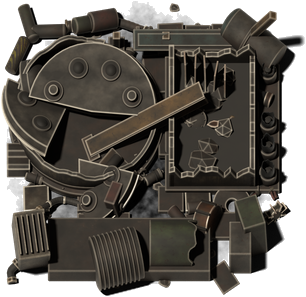
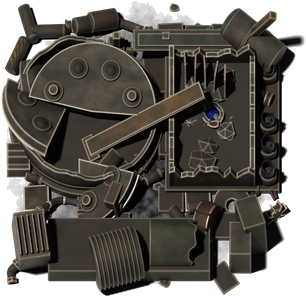
WIP: Radiant Generator idle wiring, dying blue wreck, night-light proposal, fix crops (T08c)
Claude-Session: https://claude.ai/code/session_01M2xBqY2x1tfpSgYSQDAYYJ

Changed region(s): [[0.6471, 0.3333, 0.7941, 0.4848], [0.6471, 0.303, 0.6765, 0.3333]]

diff --git a/concept/radiant-generator/model/wreck.py b/concept/radiant-generator/model/wreck.py
@@ -12,13 +12,13 @@ the debris stays on the footprint.
   - the deck: most slabs where they lay, some heaved and tilted, a few gone;
   - the carousel: the lead drum burst open on its north-east side; the turning table thrown
     off its bearing and lying tilted on the rim; the hub's dome rolled off west; the loading
-    hood's plates fallen; spent cells spilled across the deck (no fresh one, and nothing lit:
-    the light is gone with the machine);
+    hood's plates fallen; spent cells spilled across the deck (no fresh one, nothing lit);
   - the crane: its bridge fallen across the deck from the crucible to the carousel, one end on
     the ground; the trolley fallen off it; two of the three posts snapped short;
   - the crucible: its lead walls standing to half their height, torn; the roof plates thrown
     off round it; copper collector plates leaning out of the open top; the well's collar on
-    the deck;
+    the deck, its mouth torn open in the floor with a faint dying blue in it, the only light
+    left (T08c, Liam 2026-10-21: "Faint dying blue");
   - the tubes: their sockets on the east strip, the glass broken to jagged stumps, two caps
     and one whole tube lying on the ground;
   - the converter: the bedplate in place, the AC machine rolled off it to the south, the DC
@@ -439,6 +439,81 @@ for k in range(12):
     a, r = RNG.uniform(0, 2 * PI), RNG.uniform(0.4, 2.2)
     lump((r * math.cos(a), r * math.sin(a), 0.02), RNG.uniform(0.05, 0.1), RNG.choice(("dark_steel", "lead")))
 
+
+# -- the well (T08c, Liam 2026-10-21: "Faint dying blue"): its mouth torn open in the crucible's
+# floor, where the well stood (spec 3.3's served well), and the last of the isotope's light dying
+# in it -- the only light in the wreck, faint, in the radiant blue's own hue (#1F63FF at the core,
+# #0B2A8C at the rim; never #73ADFF's pale top, never white), patchy as it fades. Baked into the
+# remnants picture: a corpse draws no glow layer of the pipeline's (contract.py's remnants pass).
+DYING = "wreck_dying"
+DYING_STRENGTH = K.opt("--dying", 0.4)        # the emission at the core: T08c tried 0.9, 0.5, 0.6, 0.4 at 1x;
+                                               # 0.4 peaks at (17, 52, 154), hue 225 (#1F63FF: 222): faint
+
+
+def dying_material():
+    m = bpy.data.materials.new(DYING)
+    m.use_nodes = True
+    t = m.node_tree
+    b = t.nodes["Principled BSDF"]
+    b.inputs["Base Color"].default_value = K.rig.srgb("#0C1838")     # radiant.py's LIQUID
+    b.inputs["Roughness"].default_value = 1.0
+    b.inputs["Specular IOR Level"].default_value = 0.0     # no sun glint on it: a pale highlight read as white
+    tc = t.nodes.new("ShaderNodeTexCoord")
+    ln = t.nodes.new("ShaderNodeVectorMath")
+    ln.operation = "LENGTH"
+    t.links.new(tc.outputs["Object"], ln.inputs[0])
+    core = t.nodes.new("ShaderNodeMapRange")              # 1 at the middle, 0.25 at the rim (r 0.115): not a ball
+    core.inputs["From Min"].default_value = 0.0
+    core.inputs["From Max"].default_value = 0.115
+    core.inputs["To Min"].default_value = 1.0
+    core.inputs["To Max"].default_value = 0.25
+    core.clamp = True
+    t.links.new(ln.outputs["Value"], core.inputs["Value"])
+    nz = t.nodes.new("ShaderNodeTexNoise")                # patchy: the light dying unevenly
+    nz.inputs["Scale"].default_value = 14.0
+    nz.inputs["Detail"].default_value = 2.0
+    t.links.new(tc.outputs["Object"], nz.inputs["Vector"])
+    patch = t.nodes.new("ShaderNodeMapRange")
+    patch.inputs["From Min"].default_value = 0.35
+    patch.inputs["From Max"].default_value = 0.65
+    patch.inputs["To Min"].default_value = 0.15
+    patch.inputs["To Max"].default_value = 1.0
+    patch.clamp = True
+    t.links.new(nz.outputs["Fac"], patch.inputs["Value"])
+    k = t.nodes.new("ShaderNodeMath")
+    k.operation = "MULTIPLY"
+    t.links.new(core.outputs["Result"], k.inputs[0])
+    t.links.new(patch.outputs["Result"], k.inputs[1])
+    ramp_ = t.nodes.new("ShaderNodeValToRGB")
+    els = ramp_.color_ramp.elements
+    els[0].position, els[0].color = 0.0, K.rig.srgb("#02081A")
+    els[1].position, els[1].color = 1.0, K.rig.srgb("#1F63FF")
+    mid = els.new(0.45)
+    mid.color = K.rig.srgb("#0B2A8C")
+    t.links.new(k.outputs["Value"], ramp_.inputs["Fac"])
+    t.links.new(ramp_.outputs["Color"], b.inputs["Emission Color"])
+    b.inputs["Emission Strength"].default_value = DYING_STRENGTH
+    return m
+
+
+K.M[DYING] = dying_material()
+WELL = (1.25, 0.45)
+# the rubble that fell into the crucible over the well's place is moved off it, so the mouth shows
+for o in [o for o in K.OBJS if K.GROUP.get(o.name) == "wreck" and o.name.startswith("lump")]:
+    dx, dy = o.location.x - WELL[0], o.location.y - WELL[1]
+    d = math.hypot(dx, dy)
+    if d < 0.36 and o.location.z > 0.2:
+        s_ = (0.36 + 0.02) / max(d, 1e-3)
+        o.location.x, o.location.y = WELL[0] + dx * s_, WELL[1] + dy * s_
+with frame((WELL[0], WELL[1], 0.25)):
+    shell((0, 0, 0), 0.21, 0.125, 0.1, "lead_new", jag=0.07, seg=40)        # the collar, torn to a stub
+    annulus((0, 0, 0.0), 0.115, 0.13, 0.08, "bezel", seg=40)
+    cyl((0, 0, 0.02), 0.115, 0.006, DYING, verts=40, bevel=0)                 # the light, low in the mouth
+    lump((0.075, -0.05, 0.05), 0.06, "dark_steel", flat=0.6)                    # a lump of rubble half over it
+    for j in range(2):                                                          # two of the guide pins left
+        a = 2 * PI * j / 3 + 0.4
+        cyl((0.1 * math.cos(a), 0.1 * math.sin(a), 0.06), 0.008, 0.07, "bezel", verts=8)
+
 K.PARENT.pop()
 K.CUR.pop()
 
@@ -543,7 +618,7 @@ def sooted(m):
     else:
         k.inputs[0].default_value = met.default_value
     t.links.new(k.outputs["Value"], met)
-    # nothing in the wreck glows: the light, the lamps and the glass's glint are dead
+    # nothing sooted glows: the lamps and the glass's glint are dead (the well's dying light is not sooted)
     b.inputs["Emission Strength"].default_value = 0.0
     for lk in list(b.inputs["Emission Strength"].links):
         t.links.remove(lk)
@@ -558,7 +633,7 @@ def soot():
         if K.GROUP[o.name] != "wreck":
             continue
         for i, m in enumerate(o.data.materials if o.data else []):
-            if m is not None and m.name != "scorch":
+            if m is not None and m.name not in ("scorch", DYING):     # the dying light keeps its glow
                 if m.name not in cache:
                     cache[m.name] = sooted(m)
                 o.data.materials[i] = cache[m.name]

diff --git a/concept/radiant-generator/model/radiant_generator.py b/concept/radiant-generator/model/radiant_generator.py
@@ -10,7 +10,10 @@
   --icon     icon.png: the whole machine, working, framed to a 1024 px square
   --collide  no render: every moving part in every frame against every other part, by BVH;
              collide.txt in <out-dir>
-  --wreck    the wreck alone (wreck.png): the quick loop for the remnants
+  --wreck    the wreck alone (wreck.png): the quick loop for the remnants [--dying K: its well's dying blue]
+  --study F,F,..  [--glowframes F,..]  a study, nothing packed (T08c): at each frame the whole machine working
+             (look-NN) and stopped (unlit-NN); the well's light and the other openings' alone (wellglow-NN,
+             otherglow-NN); the openings' and the collide fixes' places on the screen (SPOT, REGION lines)
 
 Spec: concept/radiant-generator/building-spec-radiant-generator.md (written 35d626b, Liam
 "Agreed to all the drafts", 2026-10-20). Built from the signed-off concept, options round 7
@@ -31,7 +34,8 @@ places, the same finish. What the shipping model changes (task radiant-generator
     position, so each moving part reads the position it had at frame 0 instead (pin());
   - 32 frames, one crane cycle, at round 7's 1x GIF pace: 70 ms a frame, animation_speed
     60 x 0.070 = 4.2 ticks a frame, 5/21 (spec 6, decision 10);
-  - its own wreck (spec 6: "the machine's own wreck, as the Siderane turbine's"): wreck.py;
+  - its own wreck (spec 6: "the machine's own wreck, as the Siderane turbine's"): wreck.py, with a faint
+    dying blue in the well's torn mouth (T08c, Liam 2026-10-21: "Faint dying blue");
   - what --collide found in round 7's geometry, fixed (FIX 1-14, in rg_kit.py and here): the hood's
     walls over the turning table, the chute, the bin and its lid, the hub, the pinion and its case,
     the crane's wheels and the housing's roof fittings in its path, the well (a solid disc over its
@@ -492,6 +496,73 @@ if "--debug-light" in K.argv:
             o.hide_render = True
     with K.R.glow_pass(hide=(GROUND, BOUNCE)):
         render("debug-glow")
+    print("done")
+    sys.exit(0)
+
+def sprite_px(p):
+    """A model point (tiles, as modelled) to sprite px from the entity origin (x right, y down, 1x)."""
+    cam = K.sc.camera
+    q = cam.matrix_world.inverted() @ (K.ROOT.matrix_world @ Vector(p))
+    return q.x * K.rig.PX_PER_TILE, -q.y * K.rig.PX_PER_TILE
+
+
+if "--study" in K.argv:
+    # T08c, a study only (nothing here is packed): at each frame given, the whole machine working
+    # (look-NN: windows at the working plate's light, lamps lit, on the ground catcher, as round 7's
+    # working-NN renders were) and stopped (unlit-NN: the still's settings, the idle the engine will
+    # draw); at each --glowframes frame (default 20), the well's light alone and the other three
+    # openings' alone (wellglow-NN, otherglow-NN) for the tight / wide bloom; the openings' and the fix regions' places on the
+    # screen (SPOT and REGION lines), for the light definitions and the crops
+    fr_list = [int(v) for v in K.argv[K.argv.index("--study") + 1].split(",") if v]
+    glow_frames = [int(v) for v in str(K.opt("--glowframes", "20")).split(",") if v]
+    K.sc.cycles.samples = ANIM_SAMPLES
+    for f in fr_list:
+        pose(f)
+        K.pose_light(f / NF, "plate")
+        K.lamps(True)
+        K.glint(True)
+        setup(visible=MACHINE_GROUPS, ground=True)
+        render(f"look-{f:02d}")
+        K.pose_light(f / NF, "idle")
+        K.lamps(False)
+        setup(visible=MACHINE_GROUPS)
+        render(f"unlit-{f:02d}")
+    K.glint(False)
+    K.lamps(False)
+    for f in glow_frames:
+        pose(f)
+        for stem, shapes in ((f"wellglow-{f:02d}", ("surface",)), (f"otherglow-{f:02d}", ("disc", "slot", "tube"))):
+            K.pose_light(f / NF, "glow", shapes)
+            setup(visible=MACHINE_GROUPS)
+            with K.R.glow_pass(hide=(GROUND, BOUNCE)):
+                render(stem)
+            glow_floor(stem)
+    K.glint(True)
+    pose(0)
+    bpy.context.view_layer.update()
+    dg = bpy.context.evaluated_depsgraph_get()
+    inv_root = K.ROOT.matrix_world.inverted()
+    for name, (shape, _c) in K.LIQUIDS.items():
+        pts = []
+        for o in K.OBJS:
+            if o.data and getattr(o.data, "materials", None) and o.data.materials and \
+                    o.data.materials[0] and o.data.materials[0].name == name:
+                ev = o.evaluated_get(dg)
+                pts += [inv_root @ (ev.matrix_world @ Vector(c)) for c in ev.bound_box]
+        if not pts:
+            continue
+        sp = [sprite_px(p) for p in pts]
+        xs, ys = [s[0] for s in sp], [s[1] for s in sp]
+        mid = [sum(p[i] for p in pts) / len(pts) for i in range(3)]
+        print("SPOT", name, shape, "model", [round(v, 3) for v in mid],
+              "px", round((min(xs) + max(xs)) / 2, 1), round((min(ys) + max(ys)) / 2, 1),
+              "w", round(max(xs) - min(xs), 1), "h", round(max(ys) - min(ys), 1))
+    for tag, p in (("hood", (-2.05, -0.05, 0.95)), ("hub", (-1.05, 0.45, 1.1)), ("pick", (-0.225, 0.45, 0.9)),
+                   ("pinion", (-1.61, 1.87, 0.75)), ("roof", (0.8, 1.78, 1.8)), ("well", (1.25, 0.45, 1.2)),
+                   ("hinge", (1.48, 0.45, 1.3)), ("commutator", (1.055, -1.95, 0.6)), ("ladder", (2.15, 1.63, 0.7)),
+                   ("barrels", (0.7, -1.33, 0.3)), ("lagged", (0.3, 1.5, 0.8)), ("bin", (-2.28, -0.3, 0.6))):
+        x, y = sprite_px(p)
+        print("REGION", tag, round(x, 1), round(y, 1))
     print("done")
     sys.exit(0)
 
